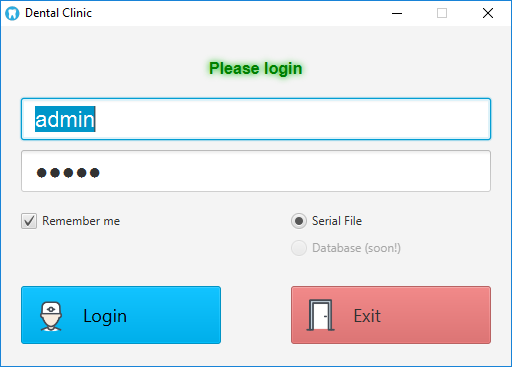
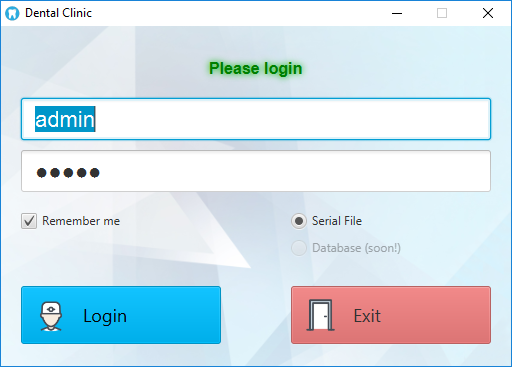
Updated login screenshot

diff --git a/Dental-Clinic/src/view/LoginScreen.java b/Dental-Clinic/src/view/LoginScreen.java
@@ -83,6 +83,8 @@ public class LoginScreen {
 
 		VBox root = new VBox(10);
 		root.setPadding(new Insets(20));
+		root.setStyle(
+				"-fx-background-image: url(" + "'/assets/background.png'" + "); -fx-background-size: cover;");
 		Scene scene = new Scene(root, WIDTH, HEIGHT);
 
 		fldUserName = new MyTextField();
